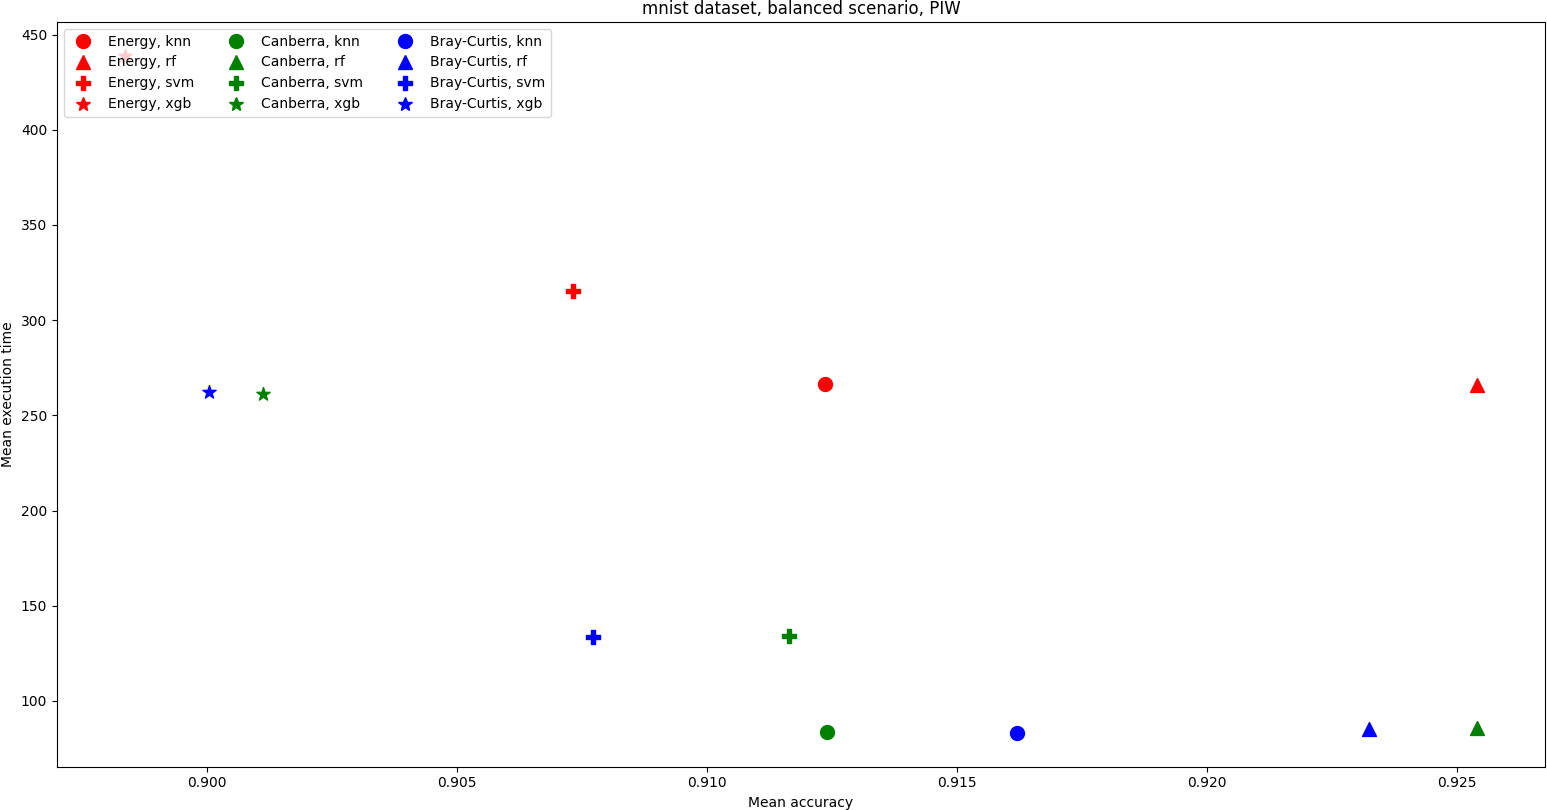
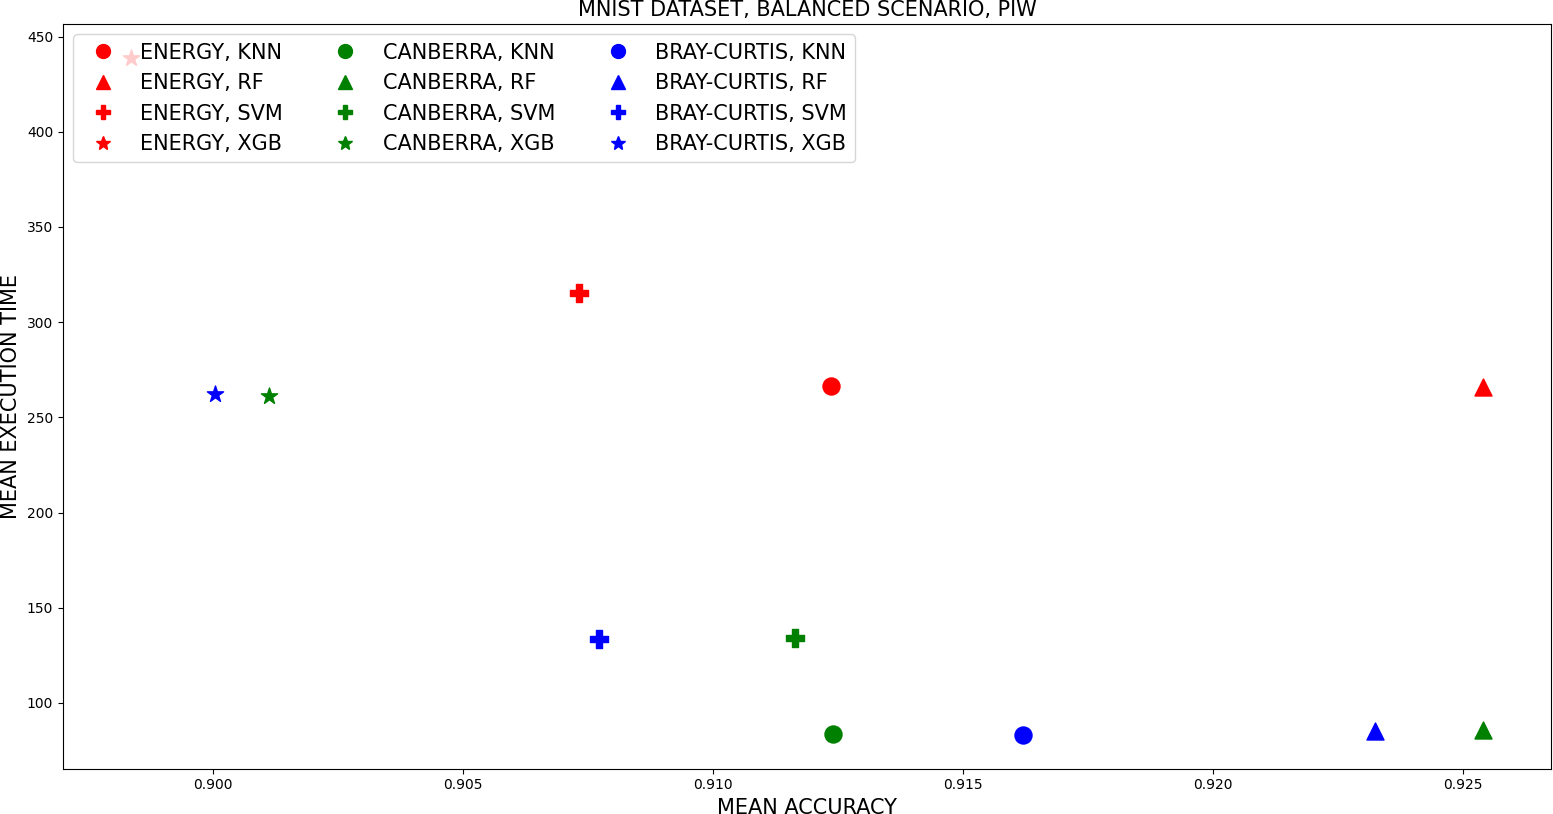
textos más grandes en las gráficas

diff --git a/python_code_v2/plot_graph.py b/python_code_v2/plot_graph.py
@@ -53,18 +53,18 @@ def plot_graph(dataList, selectedDs):
                     marker = markers[2]
                 else:
                     marker = markers[3]
-                plt.scatter(dataList[i]["points"][j][1], dataList[i]["points"][j][2], s=100, color=color, marker=marker)
+                plt.scatter(dataList[i]["points"][j][1], dataList[i]["points"][j][2], s=150, color=color, marker=marker)
     #asume that all dataList elemnt have the same balancedness value
     if dataList[0]["balancedness"] == "perturbated":
-        plt.title(selectedDs + " dataset, " 
-                  + "unbalanced scenario, " 
+        plt.title(selectedDs.upper() + " DATASET, " 
+                  + "UNBALANCED SCENARIO, " 
                   + w[selectedW])
     else:
-        plt.title(selectedDs + " dataset, " 
-                  + dataList[0]["balancedness"] + " scenario, " 
-                  + w[selectedW])
-    plt.xlabel("Mean accuracy")
-    plt.ylabel("Mean execution time")
+        plt.title(selectedDs.upper() + " DATASET, " 
+                  + dataList[0]["balancedness"].upper() + " SCENARIO, " 
+                  + w[selectedW], fontsize="15")
+    plt.xlabel("MEAN ACCURACY", fontsize="15")
+    plt.ylabel("MEAN EXECUTION TIME", fontsize="15")
     d = {"red": "Energy", "green": "Canberra", "blue": "Bray-Curtis"}
     m = {selectedClass[0]: markers[0],
          selectedClass[1]: markers[1], 
@@ -72,10 +72,10 @@ def plot_graph(dataList, selectedDs):
          selectedClass[3]: markers[3]}
     legend_elements = [
         mlines.Line2D([], [], color=c, marker=m[cl], linestyle='None',
-        markersize=10, label=f'{d[c]}, {cl}')
+        markersize=10, label=f'{d[c].upper()}, {cl.upper()}')
         for c in colors for cl in selectedClass
     ]
-    plt.legend(handles=legend_elements, ncol=3, loc='upper left')
+    plt.legend(handles=legend_elements, ncol=3, loc='upper left', fontsize="15")
     plt.show()
 
 data = [
